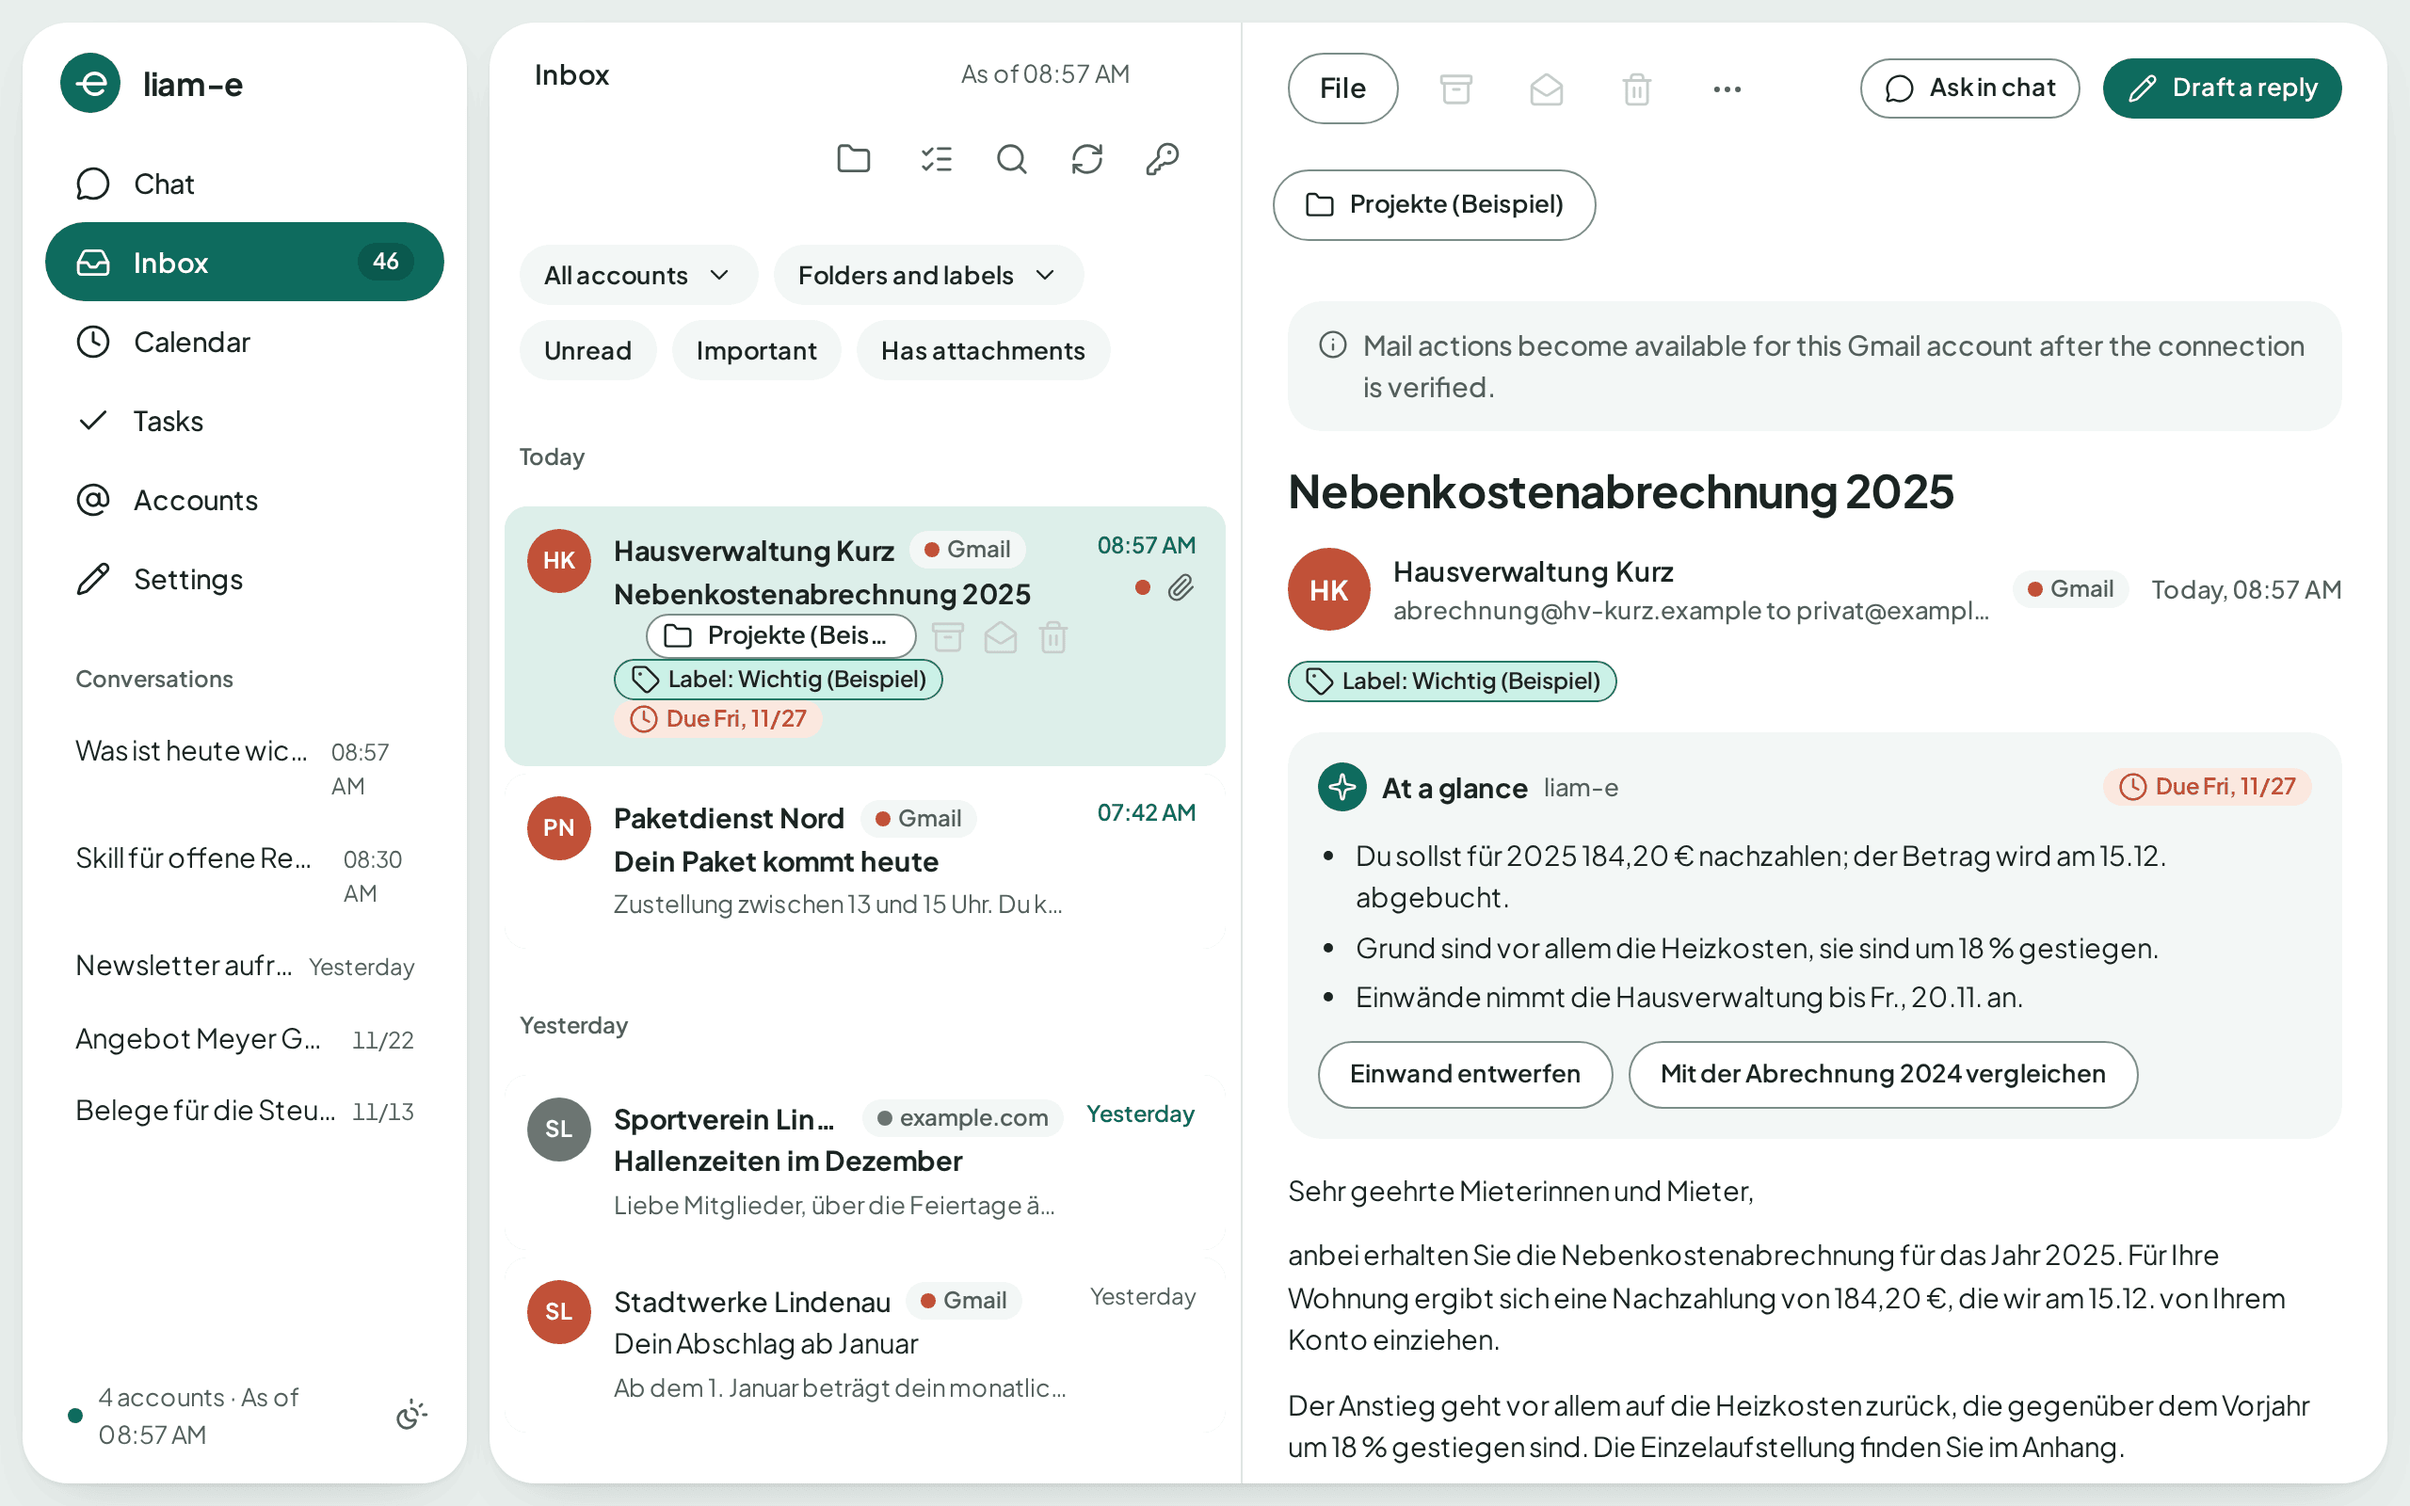
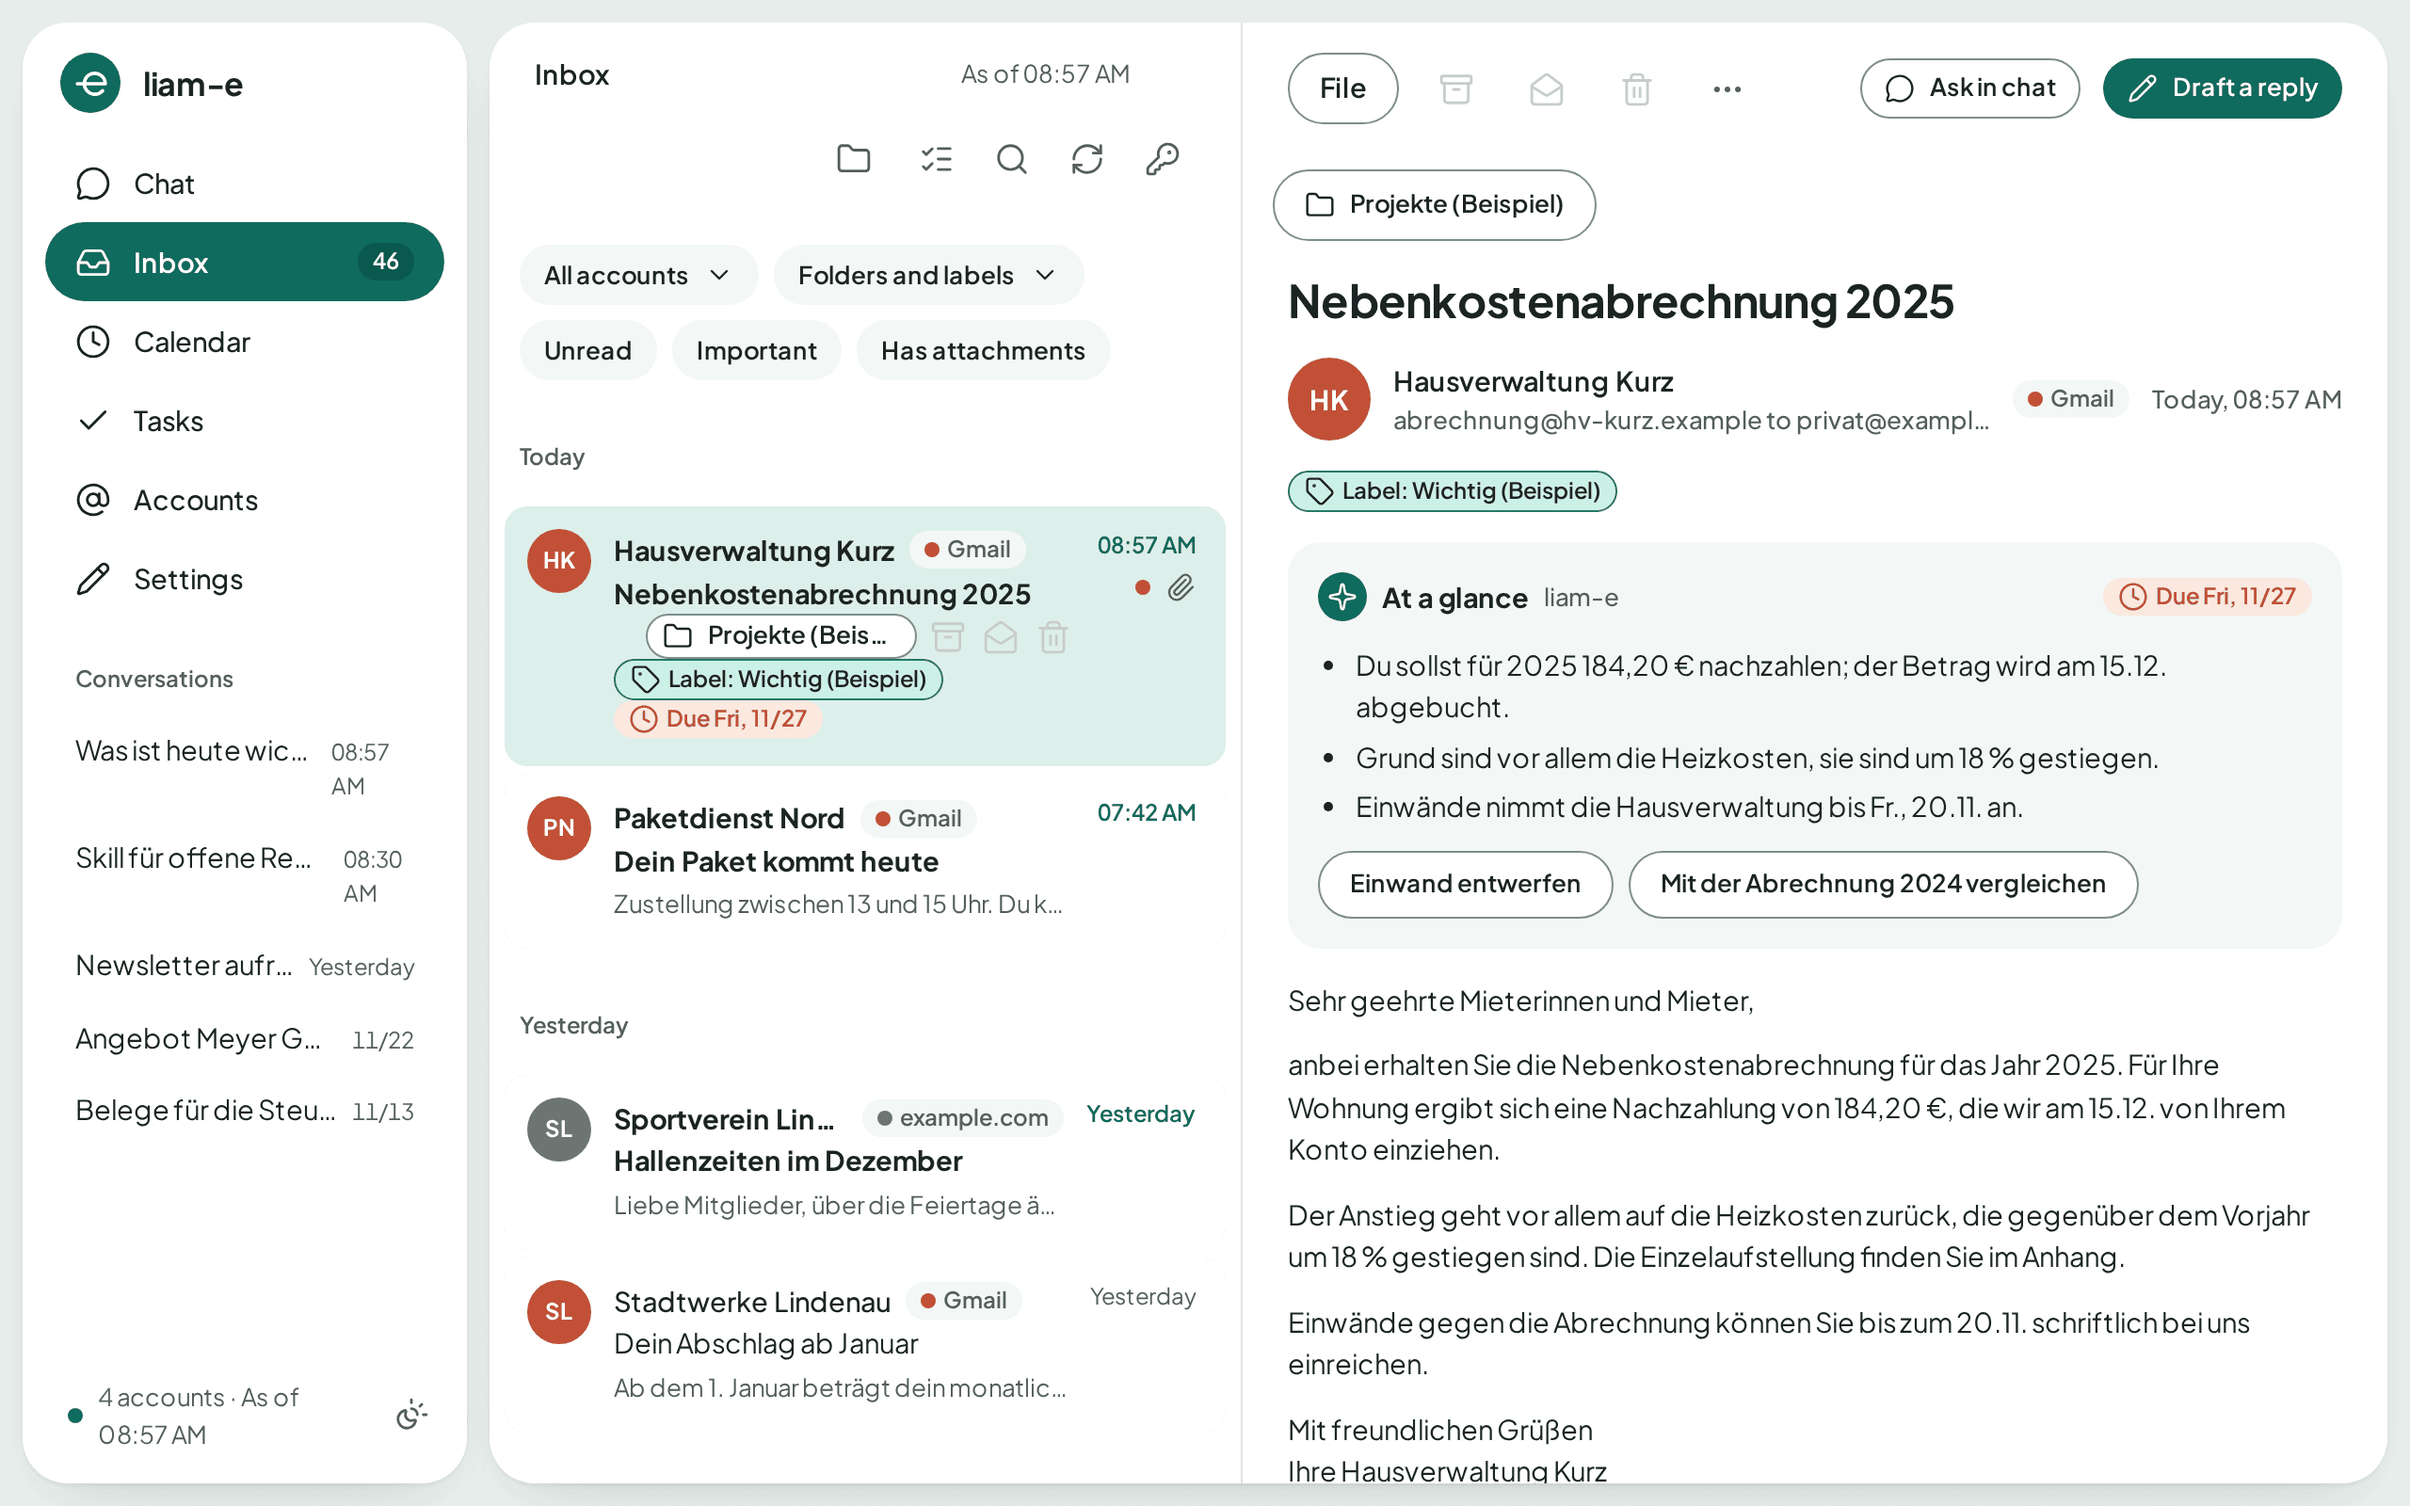
docs: keep the chosen README images and re-shoot the hero
The owner chose four images: the light inbox as hero, the dark chat
proposal card, the light phone inbox and the GIF tour. The other five
candidates leave the README and the repository.

The hero shows the same seed mail as before, the only one with a stored
summary and due date. The reading pane is scrolled just past the Gmail
verification notice, so the toolbar, subject, label, summary and due date
stay in view. The seed data is unchanged and the image is not edited.

Changed region(s): [[0.5312, 0.1875, 0.9688, 1.0], [0.8438, 0.375, 0.9688, 0.4062]]

diff --git a/README.md b/README.md
@@ -23,10 +23,7 @@ liam-e is under active development. Issues and pull requests are welcome; see
 [Roadmap](docs/roadmap.md) · [Contributing](CONTRIBUTING.md) ·
 [Discussions](https://github.com/plagor44-ux/liam-e/discussions) · [Security](SECURITY.md)**
 
-<picture>
-  <source media="(prefers-color-scheme: dark)" srcset="docs/assets/screenshot-inbox-dark.png">
-  <img alt="The liam-e inbox with an opened mail, its summary and due date, showing synthetic sample data" src="docs/assets/screenshot-inbox-light.png">
-</picture>
+<img alt="The liam-e inbox with an opened mail, its summary and due date, showing synthetic sample data" src="docs/assets/screenshot-inbox-light.png">
 
 <details>
 <summary>More screenshots</summary>
@@ -34,21 +31,11 @@ liam-e is under active development. Issues and pull requests are welcome; see
 A proposal card in chat: the assistant suggests unsubscribing from five newsletters, and nothing
 happens until you confirm.
 
-<picture>
-  <source media="(prefers-color-scheme: dark)" srcset="docs/assets/screenshot-chat-dark.png">
-  <img alt="A chat proposal card listing five newsletters to unsubscribe from, with confirm and cancel buttons" src="docs/assets/screenshot-chat-light.png">
-</picture>
+<img alt="A chat proposal card listing five newsletters to unsubscribe from, with confirm and cancel buttons" src="docs/assets/screenshot-chat-dark.png">
 
 On a phone:
 
-<picture>
-  <source media="(prefers-color-scheme: dark)" srcset="docs/assets/screenshot-mobile-inbox-dark.png">
-  <img alt="The inbox on a narrow phone screen" src="docs/assets/screenshot-mobile-inbox-light.png" width="260">
-</picture>
-<picture>
-  <source media="(prefers-color-scheme: dark)" srcset="docs/assets/screenshot-mobile-chat-dark.png">
-  <img alt="The newsletter proposal card on a narrow phone screen" src="docs/assets/screenshot-mobile-chat-light.png" width="260">
-</picture>
+<img alt="The inbox on a narrow phone screen" src="docs/assets/screenshot-mobile-inbox-light.png" width="260">
 
 A short tour from the inbox to an opened mail and a proposal card in chat:
 
